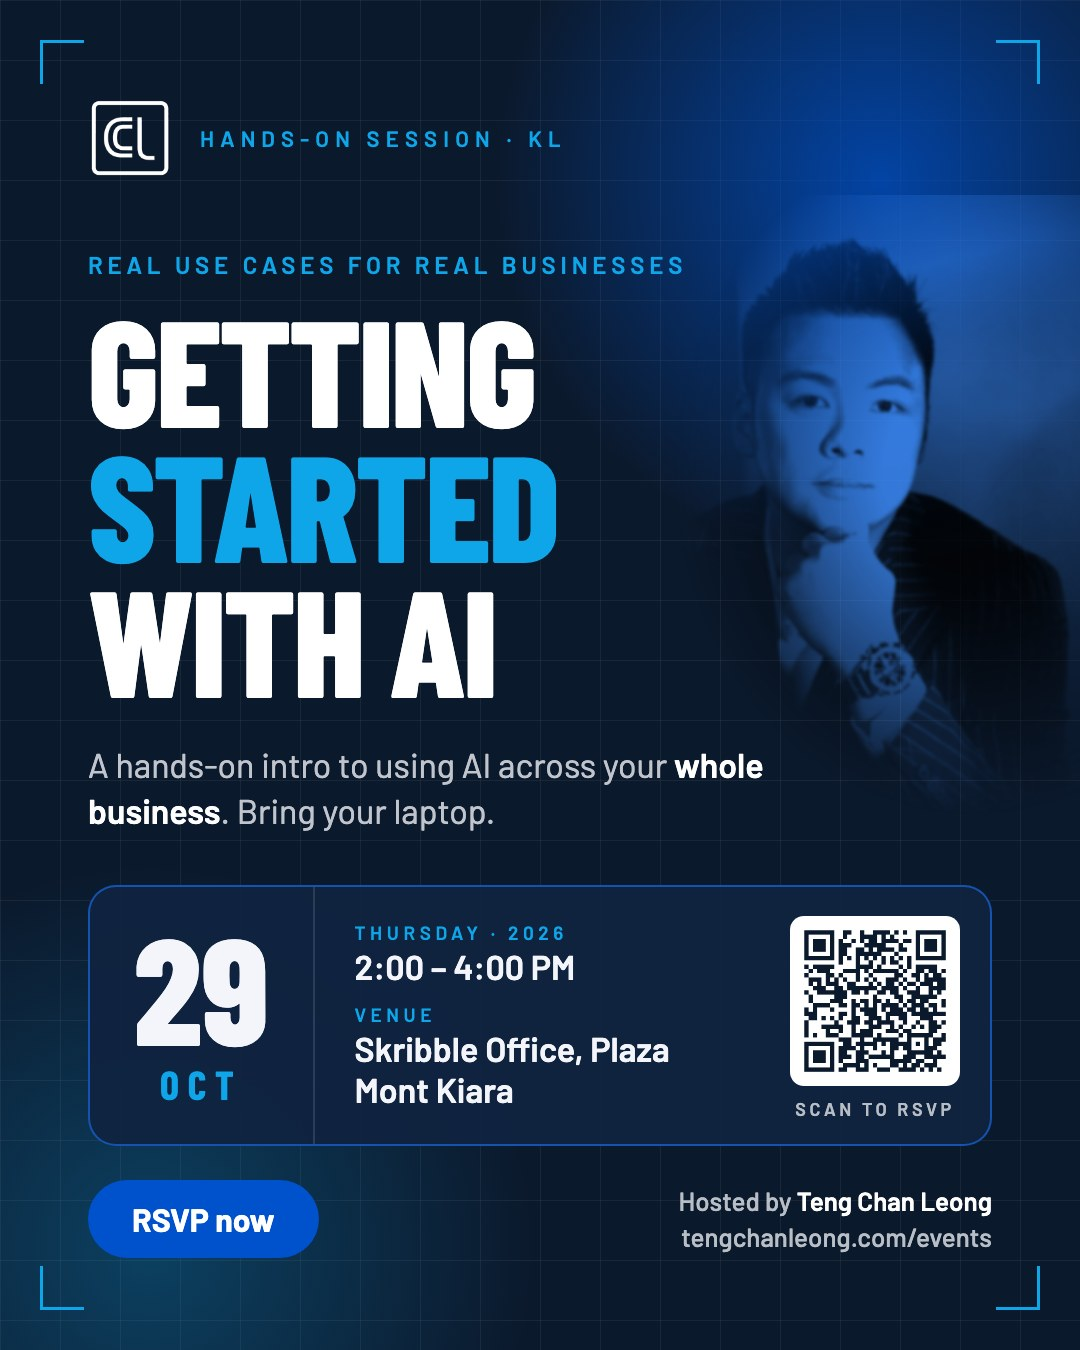
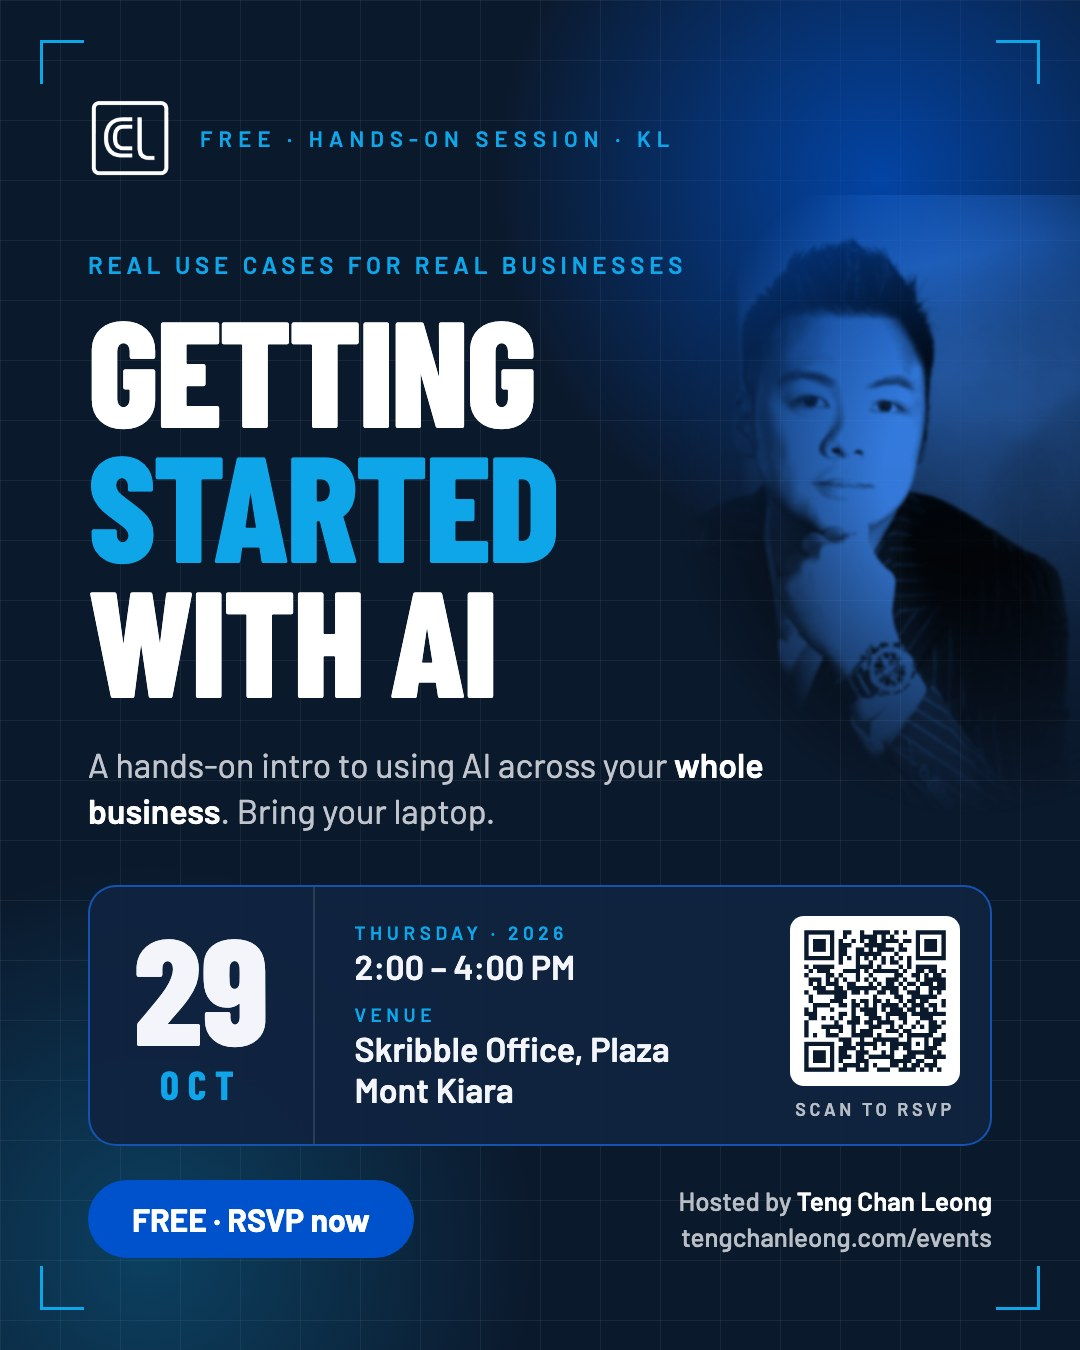
feat(events): show Free fee on card, detail page, RSVP form and poster

Changed region(s): [[0.1222, 0.8711, 0.3972, 0.9333], [0.1833, 0.0933, 0.55, 0.1244], [0.5806, 0.0933, 0.6111, 0.1244]]

diff --git a/components/events/RsvpForm.tsx b/components/events/RsvpForm.tsx
@@ -8,7 +8,7 @@ const field =
   "w-full rounded-lg bg-catalyst-navy border border-white/15 px-4 py-3 text-[15px] text-white placeholder:text-white/30 focus:outline-none focus:border-blueprint-cyan focus:ring-1 focus:ring-blueprint-cyan";
 const label = "block text-xs font-semibold uppercase tracking-widest text-white/60 mb-2";
 
-export default function RsvpForm({ eventSlug, eventTitle }: { eventSlug: string; eventTitle: string }) {
+export default function RsvpForm({ eventSlug, eventTitle, free = false }: { eventSlug: string; eventTitle: string; free?: boolean }) {
   const [status, setStatus] = useState<Status>("idle");
   const [message, setMessage] = useState("");
 
@@ -63,7 +63,7 @@ export default function RsvpForm({ eventSlug, eventTitle }: { eventSlug: string;
 
   return (
     <form onSubmit={onSubmit} className="rounded-2xl border border-catalyst-blue/40 bg-catalyst-navy-l p-6 sm:p-8 space-y-5">
-      <div className="font-display font-extrabold uppercase text-2xl text-white">Reserve your seat</div>
+      <div className="font-display font-extrabold uppercase text-2xl text-white">{free ? "Reserve your free seat" : "Reserve your seat"}</div>
 
       <div>
         <label className={label} htmlFor="name">Full name</label>
@@ -116,7 +116,7 @@ export default function RsvpForm({ eventSlug, eventTitle }: { eventSlug: string;
         disabled={status === "sending"}
         className="w-full bg-catalyst-blue text-white font-semibold text-[15px] px-6 py-3.5 rounded-full hover:bg-catalyst-blue-l transition-colors disabled:opacity-60"
       >
-        {status === "sending" ? "Sending…" : "Confirm RSVP"}
+        {status === "sending" ? "Sending…" : free ? "Confirm free RSVP" : "Confirm RSVP"}
       </button>
     </form>
   );

diff --git a/components/events/EventCard.tsx b/components/events/EventCard.tsx
@@ -32,6 +32,11 @@ export default function EventCard({ event, past = false }: { event: SiteEvent; p
           <span className="text-[11px] font-semibold uppercase tracking-widest text-white/60 border border-white/15 rounded-full px-3 py-1">
             {event.audience}
           </span>
+          {event.fee && (
+            <span className="text-[11px] font-semibold uppercase tracking-widest text-catalyst-navy bg-white rounded-full px-3 py-1">
+              {event.fee}
+            </span>
+          )}
           {open && (
             <span className="text-[11px] font-semibold uppercase tracking-widest text-white bg-catalyst-blue rounded-full px-3 py-1">
               RSVP open
@@ -59,7 +64,7 @@ export default function EventCard({ event, past = false }: { event: SiteEvent; p
         </p>
 
         <span className="mt-5 inline-flex items-center gap-2 text-sm font-semibold text-blueprint-cyan group-hover:gap-3 transition-all">
-          {past ? (event.recapUrl ? "View recap" : "Details") : open ? "Details & RSVP" : event.externalUrl ? "Details & event site" : "Details"}
+          {past ? (event.recapUrl ? "View recap" : "Details") : open ? (event.fee?.toLowerCase() === "free" ? "Details & free RSVP" : "Details & RSVP") : event.externalUrl ? "Details & event site" : "Details"}
           <span aria-hidden="true">→</span>
         </span>
       </div>

diff --git a/app/events/[slug]/page.tsx b/app/events/[slug]/page.tsx
@@ -111,6 +111,7 @@ export default async function EventPage({ params }: { params: Promise<{ slug: st
                 ) : e.venueName}
                 {e.venueAddress && <span className="block text-white/60 text-sm mt-1">{e.venueAddress}</span>}
               </Fact>
+              {e.fee && <Fact k="Fee">{e.fee}</Fact>}
               <Fact k="Who it's for">{e.audience}</Fact>
               {!past && !e.timeTbc && (
                 <a href={calendarUrl(e)} target="_blank" rel="noopener noreferrer"
@@ -127,7 +128,7 @@ export default async function EventPage({ params }: { params: Promise<{ slug: st
                 {e.externalLabel ?? "Event website"} ↗
               </a>
             )}
-            {open && <RsvpForm eventSlug={e.slug} eventTitle={e.title} />}
+            {open && <RsvpForm eventSlug={e.slug} eventTitle={e.title} free={e.fee?.toLowerCase() === "free"} />}
             {!past && e.rsvp.required && !open && (
               <p className="text-white/60 text-[15px]">RSVP for this event has closed.</p>
             )}

diff --git a/lib/events.ts b/lib/events.ts
@@ -30,6 +30,8 @@ export type SiteEvent = {
   promoCode?: string;
   /** What the code gives, e.g. "15% off your pass". */
   promoNote?: string;
+  /** Ticket price shown on card and detail page, e.g. "Free". Omit if not applicable. */
+  fee?: string;
   /** e.g. "Members", "Open to all", "Invite only" */
   audience: string;
   rsvp: EventRsvp;
@@ -70,6 +72,7 @@ export const events: SiteEvent[] = [
     venueAddress: "Unit E-15-02, Level 15, Plaza Mont Kiara, No. 2, Jalan Kiara, Mont Kiara, 50480 Kuala Lumpur",
     venueUrl: "https://www.google.com/maps/search/?api=1&query=Plaza+Mont+Kiara+No.+2+Jalan+Kiara+50480+Kuala+Lumpur",
     audience: "Business owners, team leads & professionals",
+    fee: "Free",
     rsvp: { required: true },
     poster: "/images/events/getting-started-with-ai-poster.jpg",
   },

diff --git a/app/api/events/route.ts b/app/api/events/route.ts
@@ -1,0 +1,20 @@
+import { events } from "@/lib/events";
+
+// Public, read-only list of the events on this site (the same facts the /events pages already show).
+// Other tools read it so they always match what is deployed: the SKBL command centre's RSVP sync joins each
+// RSVP sheet tab (named by slug) to an event date here, so an event added to lib/events.ts needs no extra step.
+export function GET() {
+  return Response.json({
+    events: events
+      .filter((e) => !e.placeholder)
+      .map((e) => ({
+        slug: e.slug,
+        title: e.title,
+        start: e.start,
+        end: e.end,
+        venueName: e.venueName,
+        timeTbc: Boolean(e.timeTbc),
+        rsvp: { required: e.rsvp.required, capacity: e.rsvp.capacity ?? null, deadline: e.rsvp.deadline ?? null },
+      })),
+  });
+}
